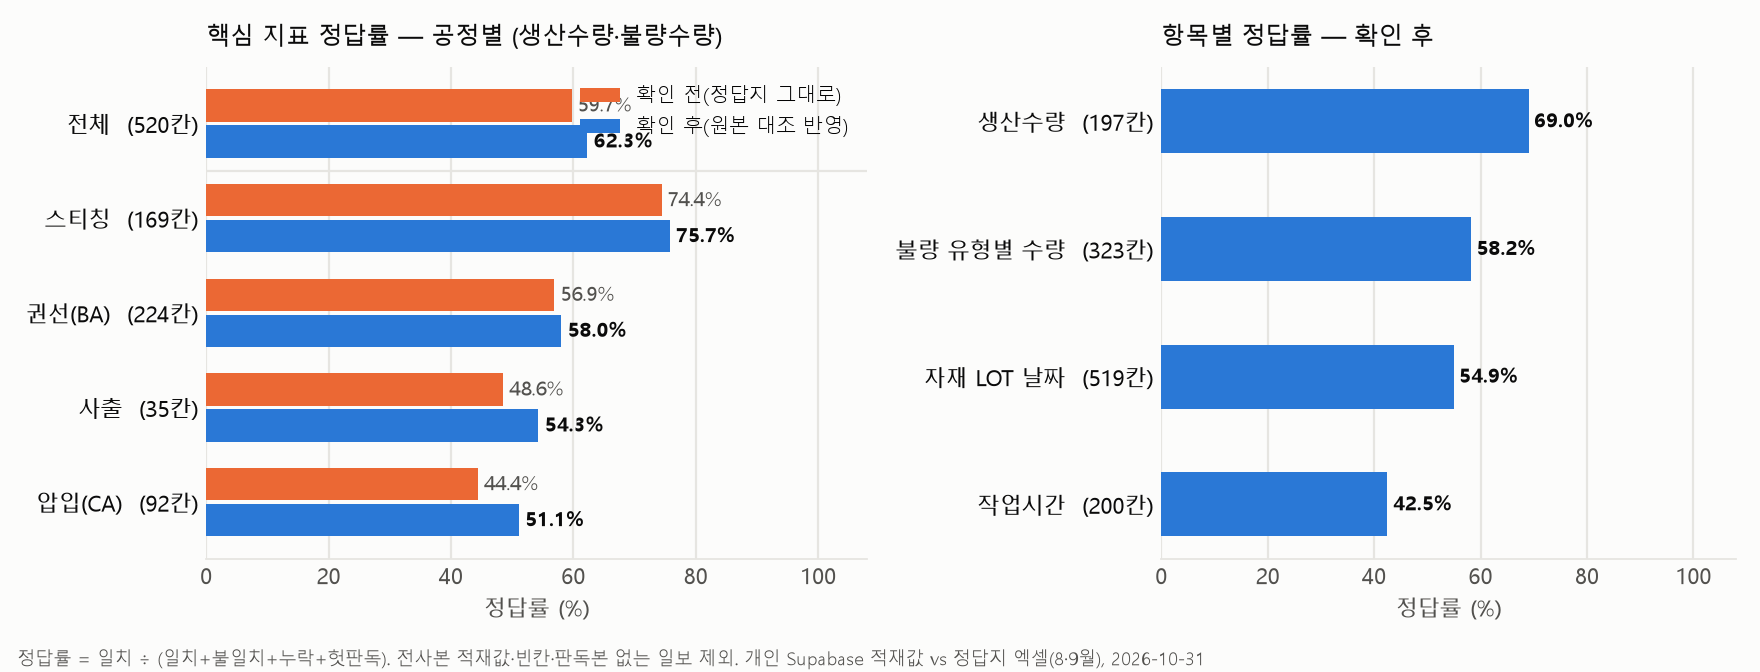
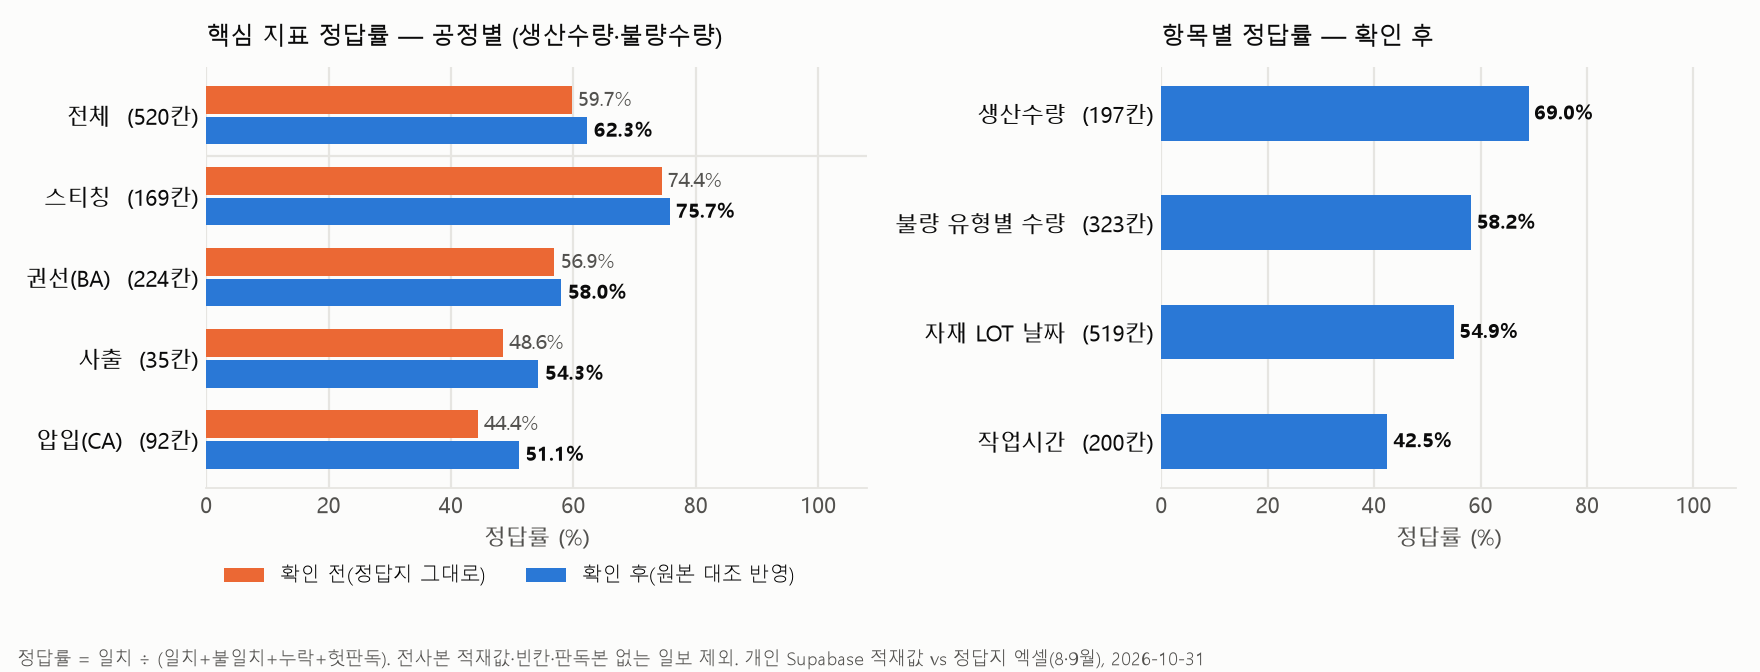
fix: 정답률 그래프 범례 위치(막대와 겹침 해소)

diff --git a/tools/accuracy/charts.py b/tools/accuracy/charts.py
@@ -57,7 +57,7 @@ def main():
     a1.set_yticks(list(y)); a1.set_yticklabels([f"{l}  ({d}칸)" for l, d in zip(labels, dens)])
     a1.set_title("핵심 지표 정답률 — 공정별 (생산수량·불량수량)", loc="left", fontsize=11, color=INK, pad=10)
     a1.set_xlabel("정답률 (%)"); style(a1, 108)
-    a1.legend(loc="upper right", frameon=False, fontsize=9)
+    a1.legend(loc="upper left", bbox_to_anchor=(0, -0.14), ncol=2, frameon=False, fontsize=9)
     a1.axhline(0.5, color=GRID, linewidth=1)
 
     items, vals, dens2 = [], [], []
@@ -71,7 +71,7 @@ def main():
     a2.set_xlabel("정답률 (%)"); style(a2, 108)
     fig.text(0.01, 0.01, "정답률 = 일치 ÷ (일치+불일치+누락+헛판독). 전사본 적재값·빈칸·판독본 없는 일보 제외. 개인 Supabase 적재값 vs 정답지 엑셀(8·9월), 2026-10-31",
              fontsize=8, color=INK2)
-    fig.tight_layout(rect=(0, 0.04, 1, 1)); fig.savefig(OUT / "정답률_1_공정항목.png", dpi=160); plt.close(fig)
+    fig.tight_layout(rect=(0, 0.06, 1, 1)); fig.savefig(OUT / "정답률_1_공정항목.png", dpi=160); plt.close(fig)
 
     # ---- 그림 2: 틀린 칸 분류 + 판독 오류 유형
     fig, (b1, b2) = plt.subplots(1, 2, figsize=(11, 3.9), gridspec_kw={"width_ratios": [1, 1.1]})
